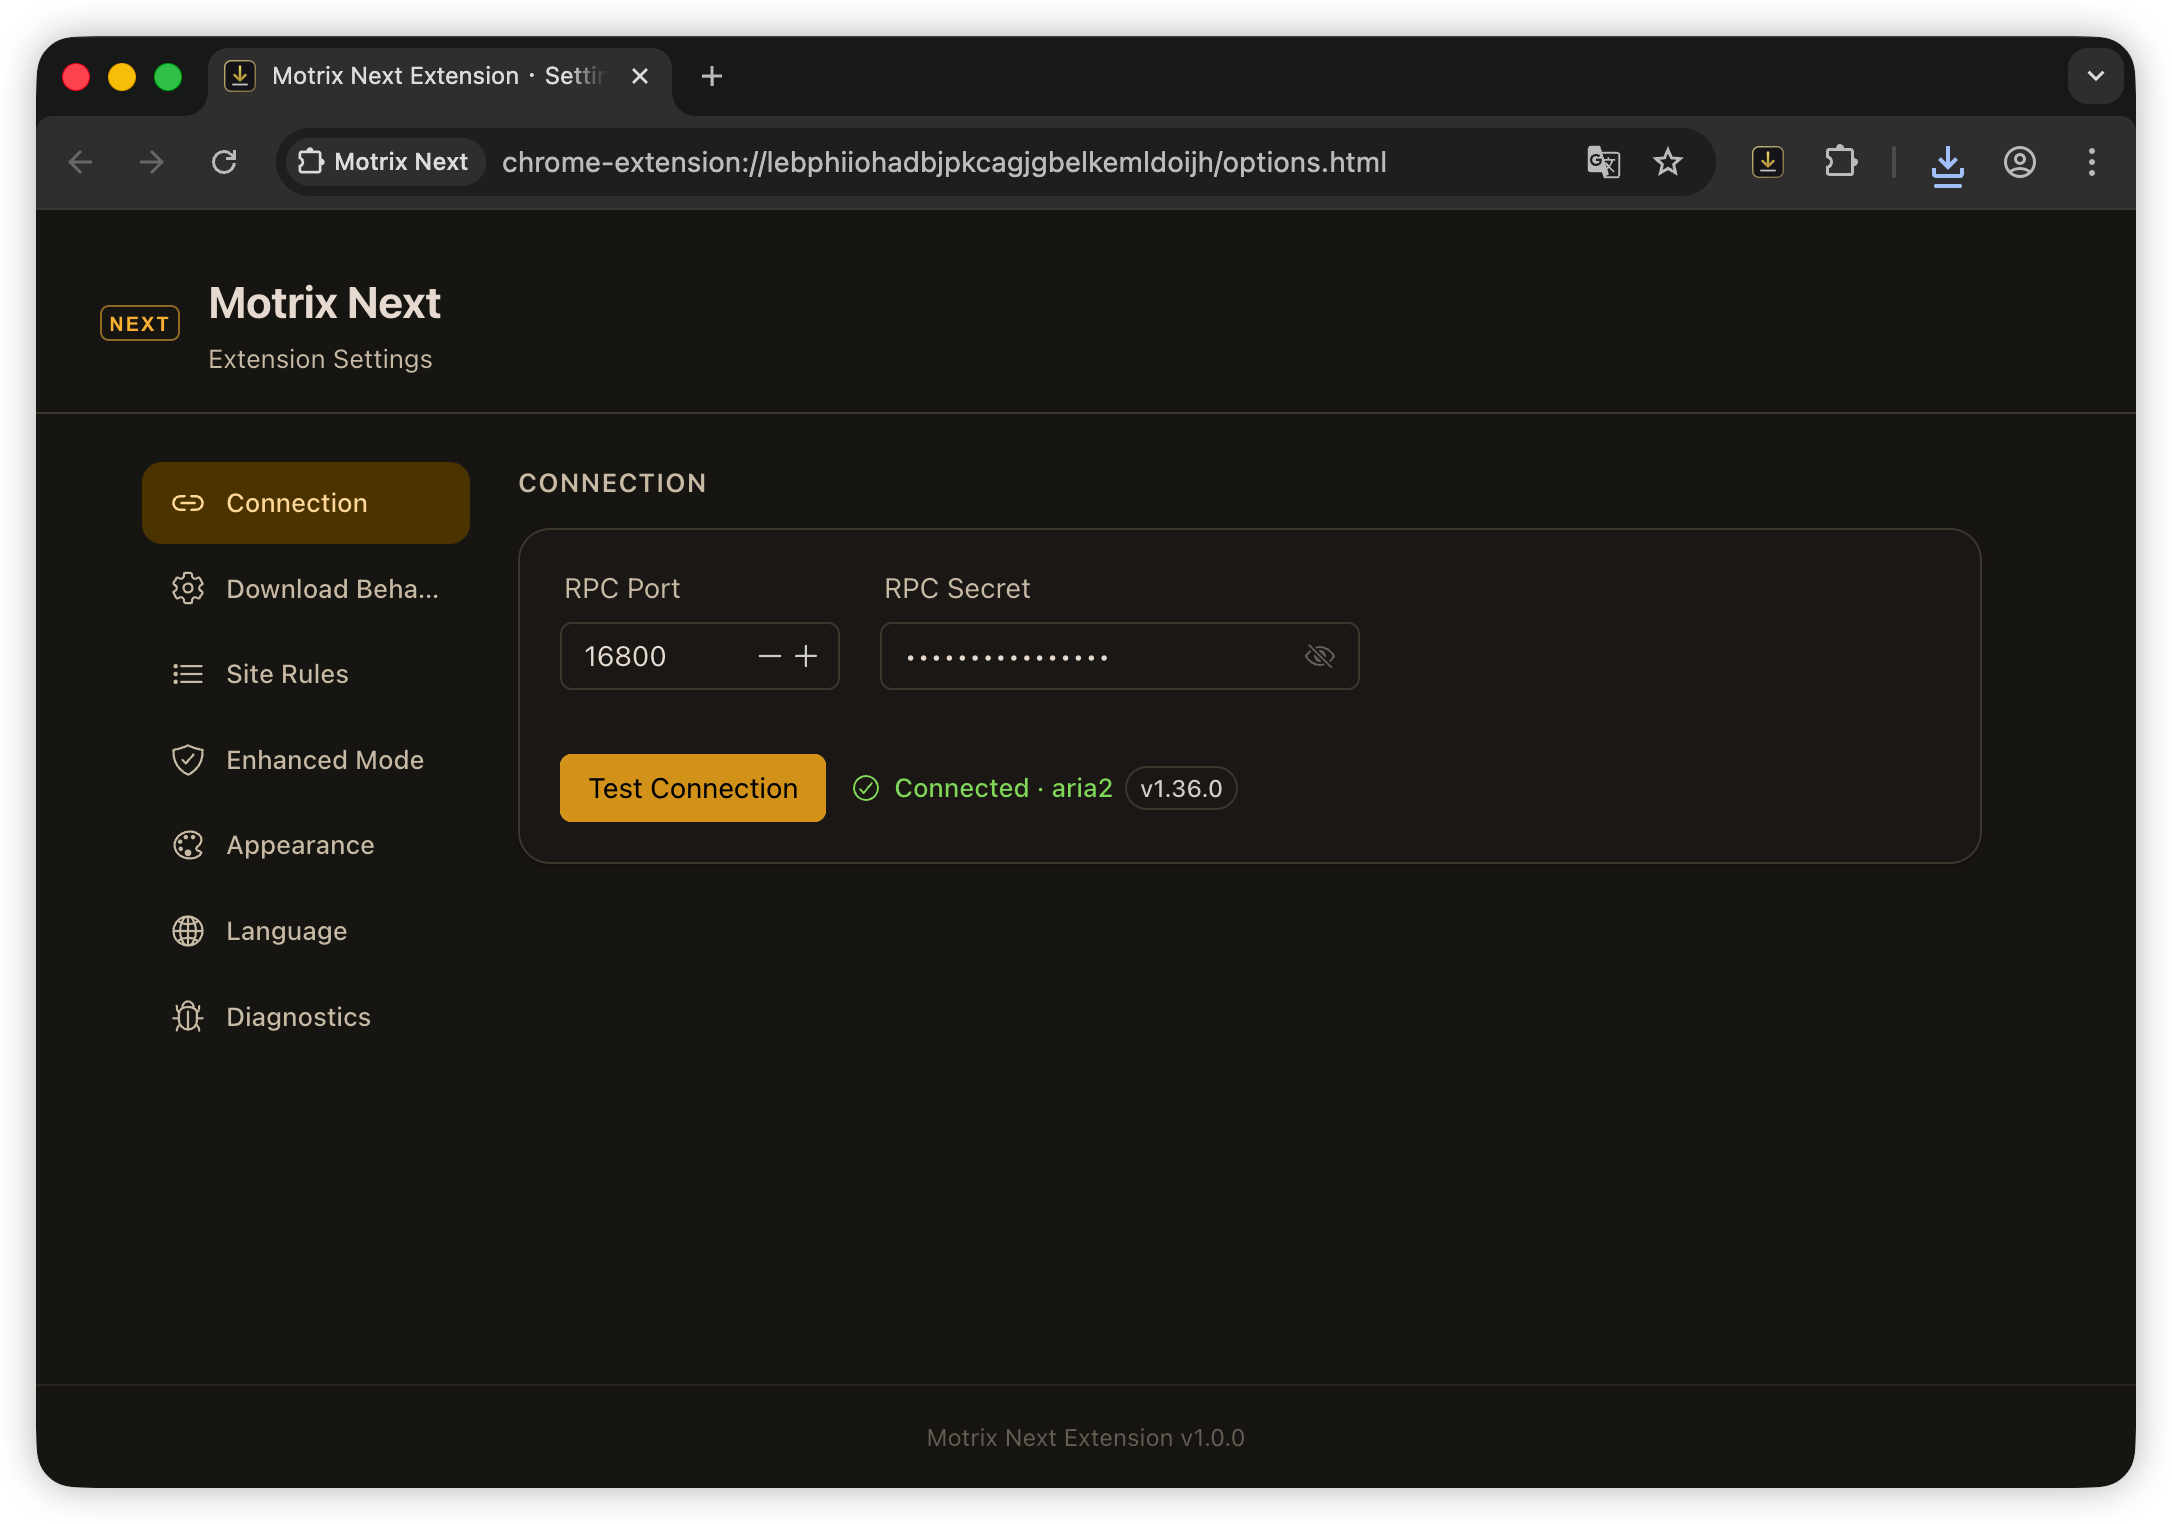
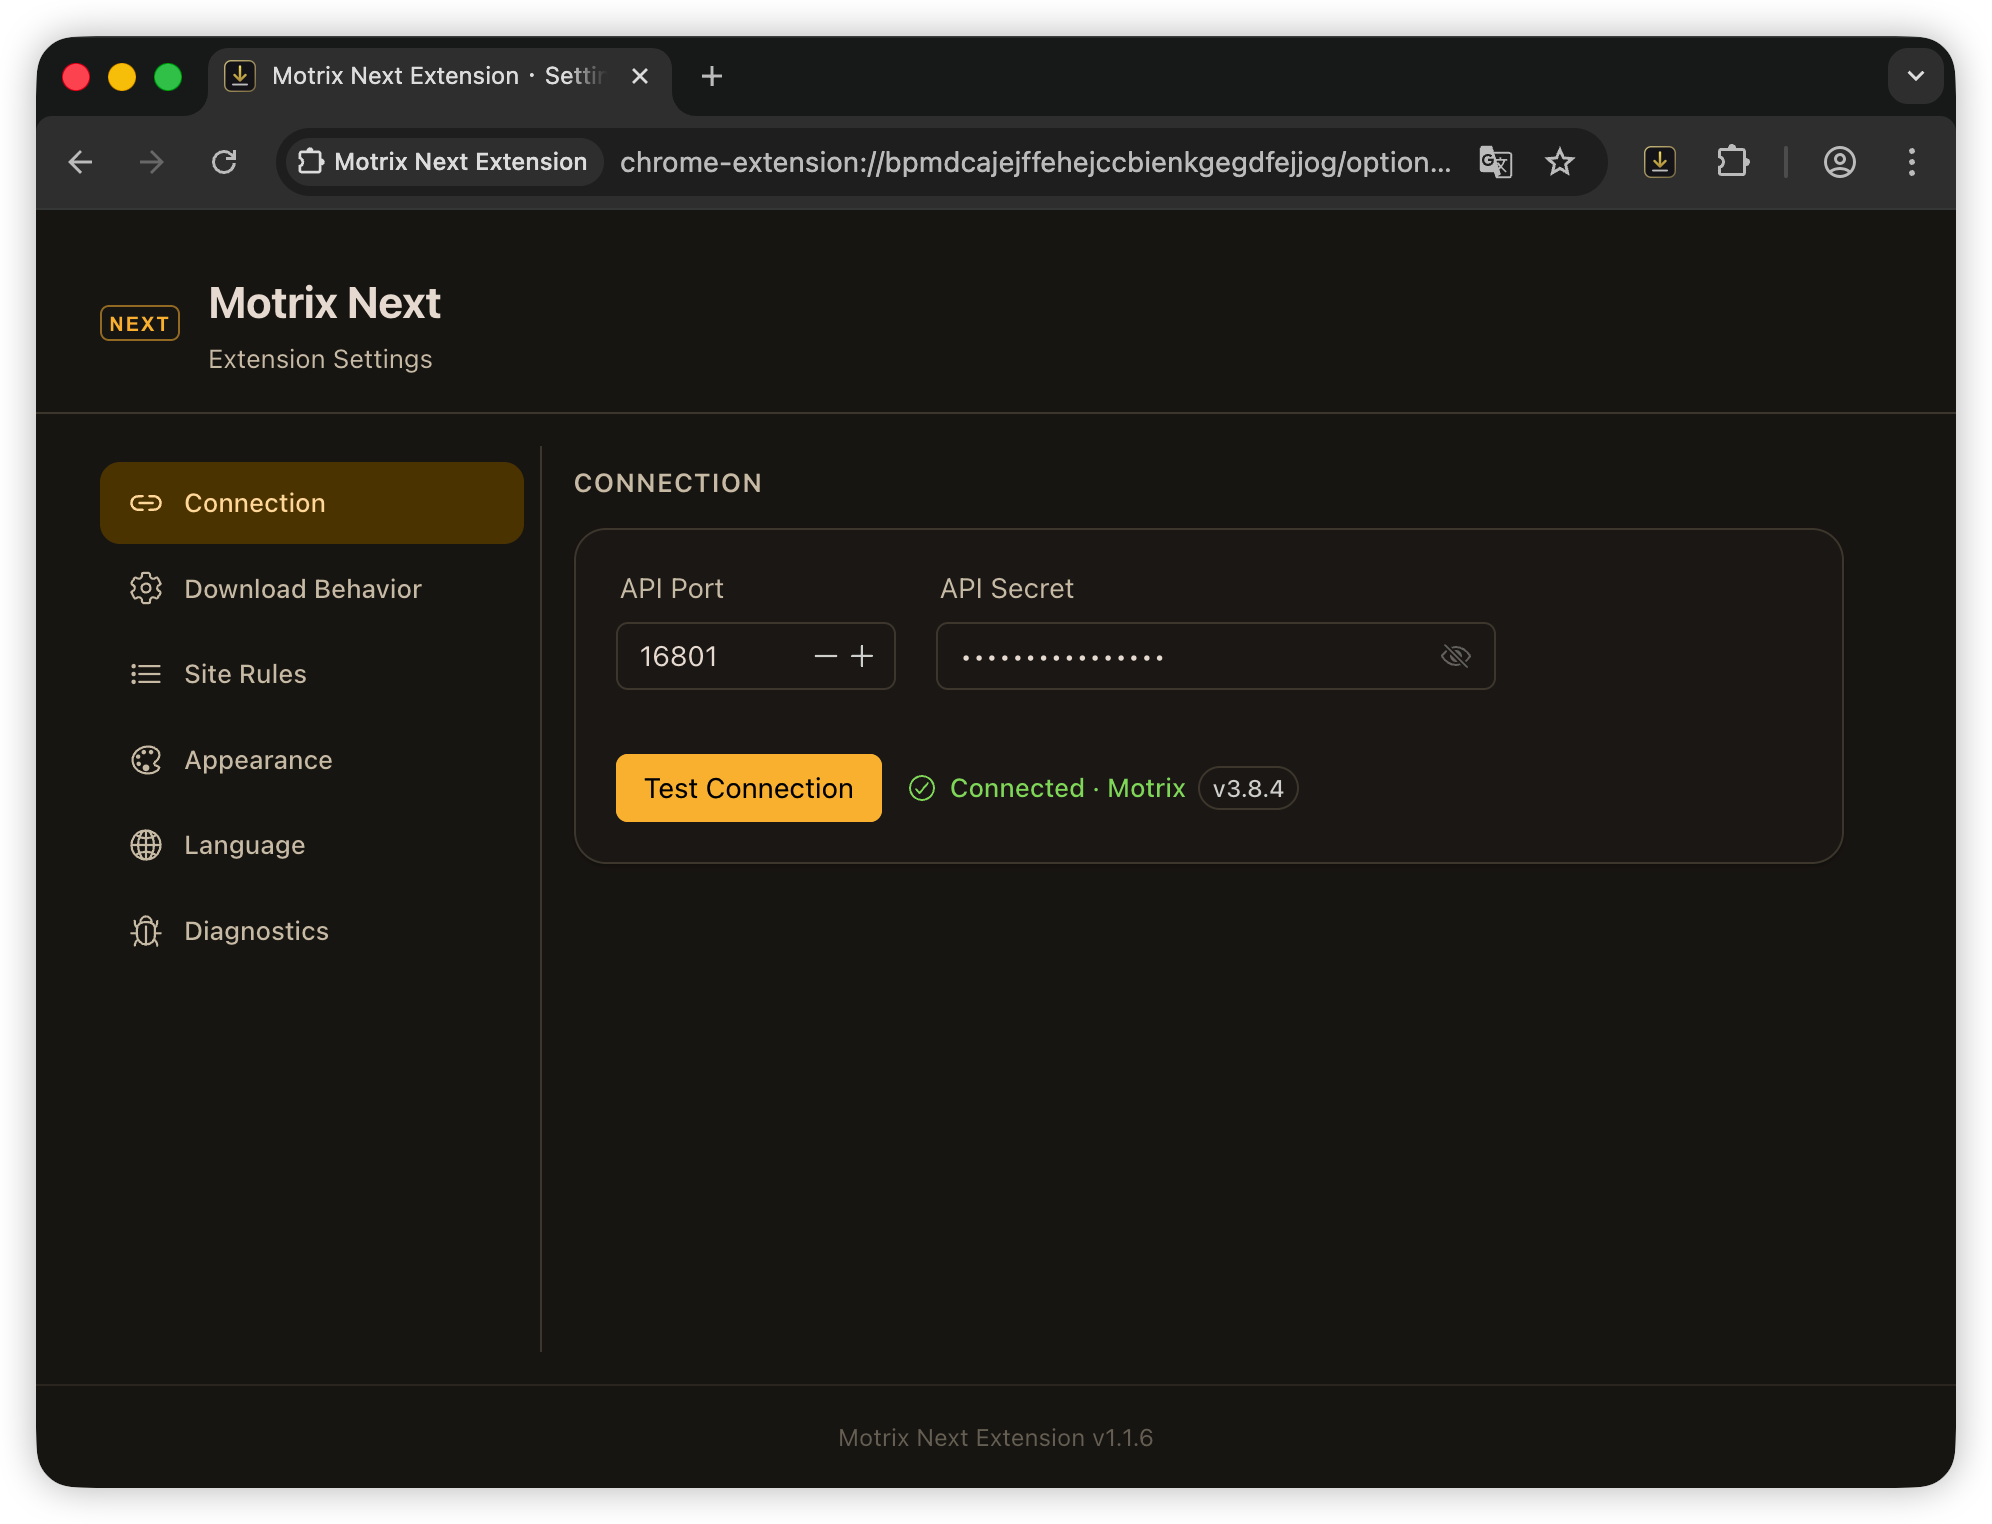
docs: update README and documentation images to reflect API migration and expanded i18n support

diff --git a/README.md b/README.md
@@ -31,18 +31,18 @@
 
 ## Features
 
-- **Download interception** — Automatically captures browser downloads and routes them through aria2 for multi-threaded acceleration
+- **Download interception** — Automatically captures browser downloads and routes them to Motrix Next for multi-threaded acceleration
 - **Smart filtering** — 6-stage pipeline: global toggle → self-trigger guard → URL scheme → per-site rules → minimum file size → final verdict
 - **Per-site rules** — Glob-pattern rules (e.g. `*.github.com`) to always intercept, always skip, or defer to global settings
 - **Context menu** — Right-click any link, image, audio, or video → "Download with Motrix Next"
 - **Magnet & torrent** — `magnet:` URIs and `.torrent` files are automatically captured and routed to aria2
 - **Cookie forwarding** — Best-effort cookie forwarding via optional enhanced permissions for authenticated downloads
 - **Real-time dashboard** — Popup shows live download/upload speeds, active/waiting/completed task counts
-- **Auto-launch** — Launches Motrix Next via `motrixnext://` protocol when not running, waits for RPC, then retries
+- **Auto-launch** — Launches Motrix Next via `motrixnext://` protocol when not running, waits for API, then retries
 - **Completion notifications** — Desktop notifications when downloads are sent and when they finish
 - **Download bar control** — Optionally hides Chrome's native download shelf (Chromium 115+, not available on Firefox)
 - **Dark mode** — System / Light / Dark with 10 Material You color schemes
-- **i18n** — Full English, Chinese (Simplified), and Japanese localization
+- **i18n** — 26 languages including English, Chinese, Japanese, Korean, French, German, Spanish, and more
 - **Diagnostics** — Built-in event log with severity levels and one-click export
 
 ## Installation
@@ -100,7 +100,7 @@ Then load the unpacked extension:
 
 <br>
 
-Yes. This extension sends downloads to the Motrix Next desktop app via aria2 JSON-RPC on `127.0.0.1:16800`. Without the desktop app running, the extension will show a "Disconnected" status and cannot process downloads.
+Yes. This extension sends downloads to the Motrix Next desktop app via its HTTP API on `127.0.0.1:16801`. Without the desktop app running, the extension will show a "Disconnected" status and cannot process downloads.
 
 </details>
 
@@ -127,8 +127,8 @@ No. This extension does **not** collect, store, or transmit any personal data. A
 ### Prerequisites
 
 - [Node.js](https://nodejs.org/) ≥ 18
-- [pnpm](https://pnpm.io/) ≥ 9
-- [Motrix Next](https://github.com/AnInsomniacy/motrix-next) desktop app running with RPC enabled
+- [pnpm](https://pnpm.io/) ≥ 10
+- [Motrix Next](https://github.com/AnInsomniacy/motrix-next) desktop app running
 
 ### Setup
 
@@ -152,22 +152,23 @@ pnpm zip
 motrix-next-extension/
 ├── entrypoints/                # Extension entry points
 │   ├── background.ts           #   Service worker — orchestrator, listeners, polling
-│   ├── popup/App.vue           #   Browser action popup — status, tasks, actions
+│   ├── content.ts              #   Content script — magnet link click interception
+│   ├── popup/App.vue           #   Browser action popup — status, speed, task dashboard
 │   └── options/App.vue         #   Full-page settings — connection, behavior, rules
 ├── lib/                        # Core logic (dependency-injected, fully testable)
+│   ├── api/                    #   Desktop HTTP API client (Axum REST)
 │   ├── download/               #   Interception orchestrator, 6-stage filter, metadata collector
-│   ├── rpc/                    #   aria2 JSON-RPC 2.0 client with retry and auth
-│   ├── services/               #   Completion tracker, notifications, permissions, theme
-│   ├── protocol/               #   motrixnext:// launcher and wake logic
+│   ├── services/               #   Connection, wake, context menu, notifications, download bar, theme
+│   ├── protocol/               #   motrixnext:// protocol URL builder
 │   └── storage/                #   Zod-validated schemas, migration framework, diagnostic log
 ├── shared/                     # Shared utilities
 │   ├── i18n/                   #   Compile-time i18n engine with positional placeholders
 │   ├── types.ts                #   TypeScript interfaces
 │   └── constants.ts            #   Default configs, timing constants
-├── __tests__/                  # 330 tests across 28 files
-│   ├── unit/                   #   27 isolated service test files
+├── __tests__/                  # 350 tests across 25 files
+│   ├── unit/                   #   24 isolated service test files
 │   └── integration/            #   End-to-end interception flow
-├── public/_locales/            # Chrome i18n message bundles (en, zh_CN, ja)
+├── public/_locales/            # Chrome i18n message bundles (26 languages)
 └── .github/workflows/ci.yml   # CI: compile → test → lint → i18n → format → build
 ```
 
